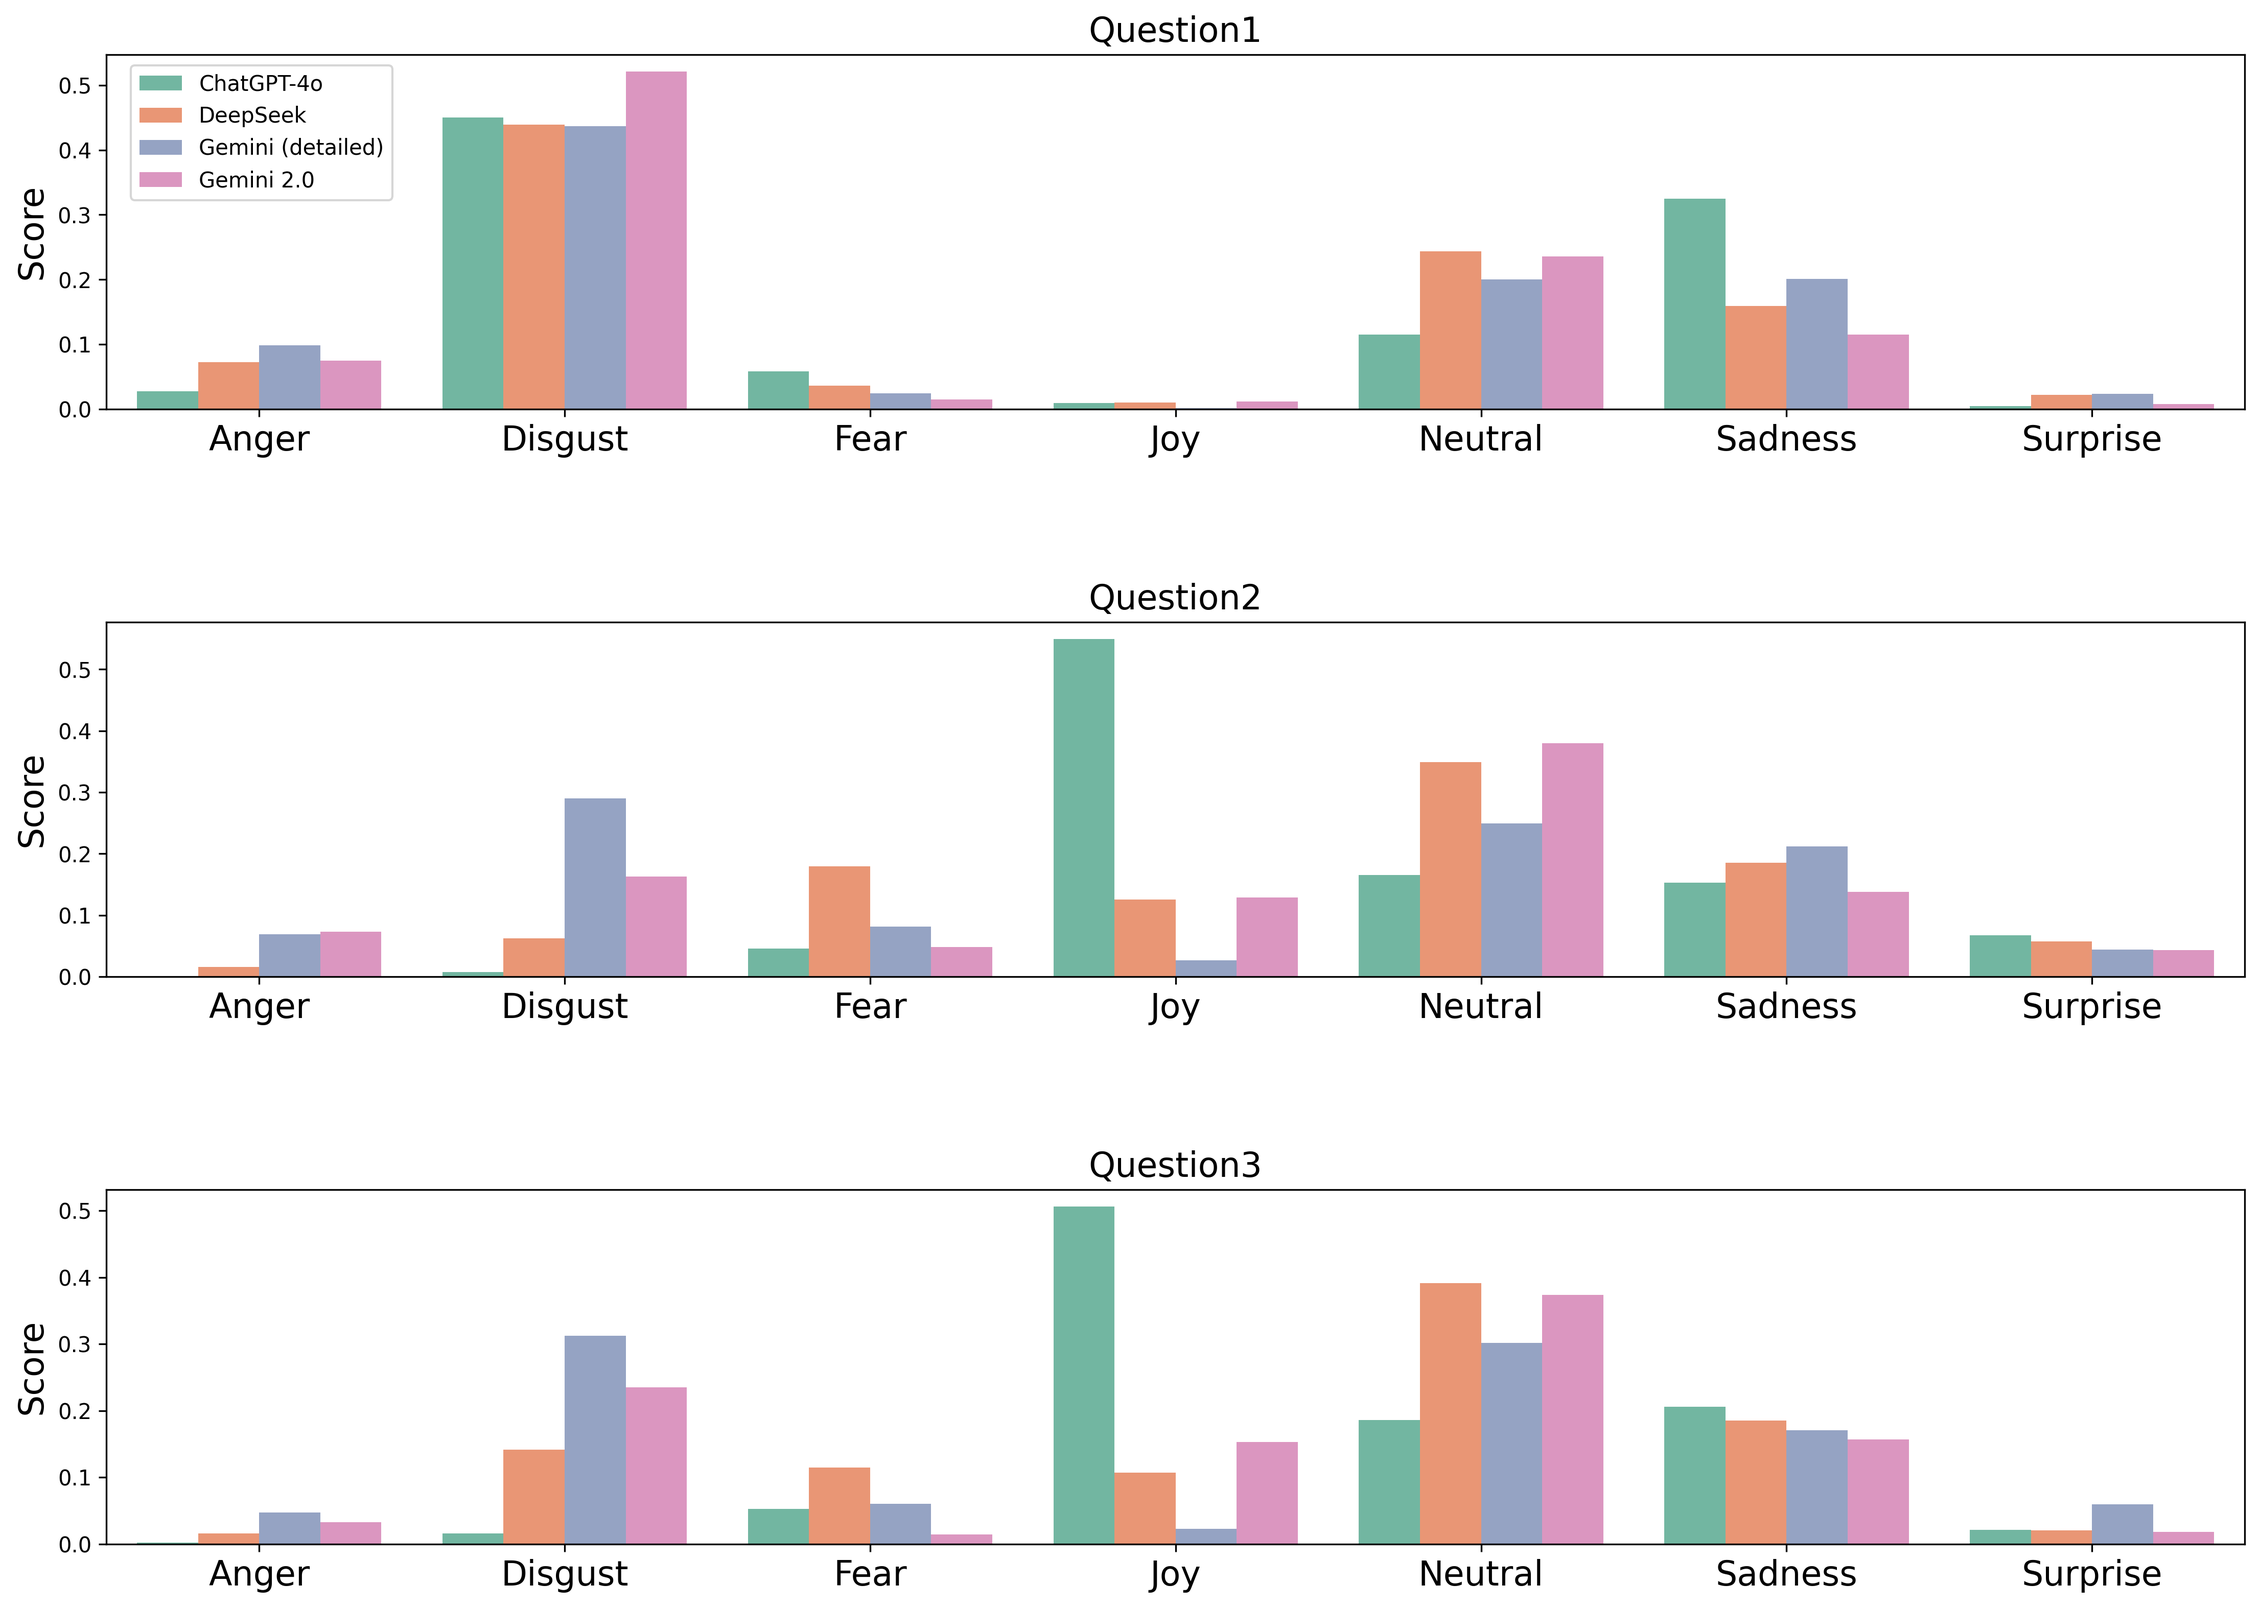
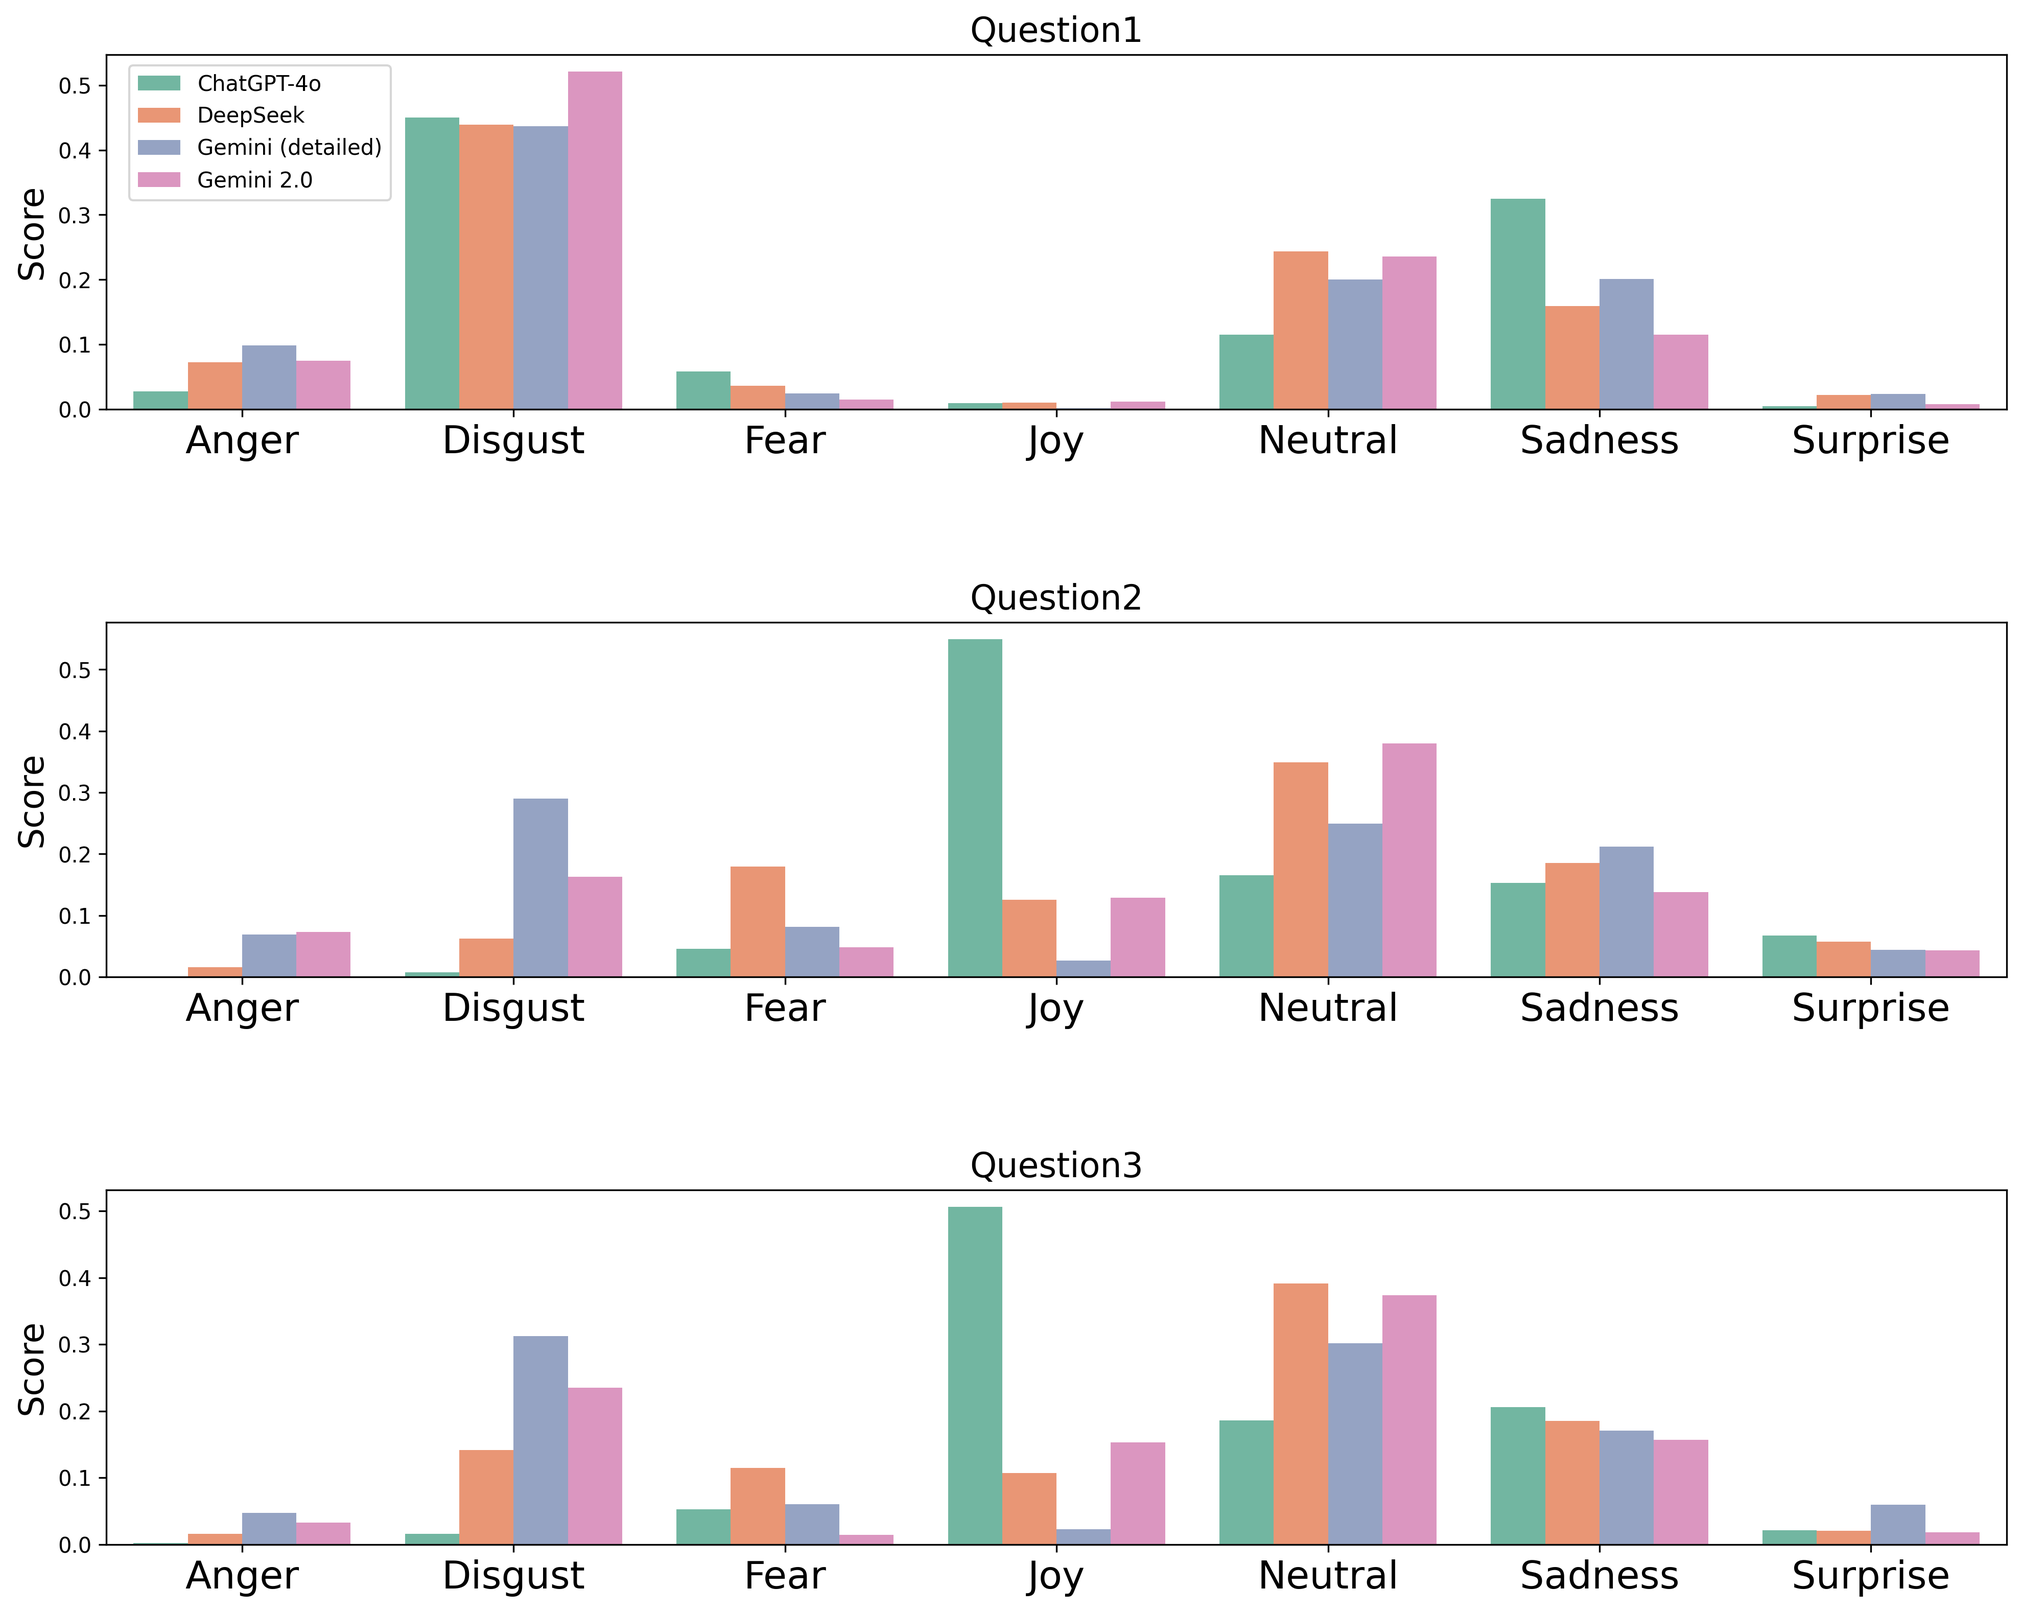
update

diff --git a/visualization/emotion.py b/visualization/emotion.py
@@ -135,7 +135,7 @@ def plot_emotion_by_question_subplots(ai_df):
     question_labels = ['question1', 'question2', 'question3']
 
     # Create subplots with appropriate size
-    fig, axes = plt.subplots(3, 1, figsize=(18, 12))
+    fig, axes = plt.subplots(3, 1, figsize=(16, 12))
 
     for idx, question_label in enumerate(question_labels):
         # Filter the dataframe for the specific question
@@ -164,11 +164,10 @@ def plot_emotion_by_question_subplots(ai_df):
         sns.barplot(data=avg_scores, x='Emotion', y='Score', hue='AI Model', palette="Set2", ax=axes[idx])
 
         axes[idx].set_title(f'{question_label.capitalize()}',
-
                             fontsize = 16)
 
         # adjust plot aesthetics
-        axes[idx].tick_params(axis='x', labelsize=16)
+        axes[idx].tick_params(axis='x', labelsize=18)
         # for label in axes[idx].get_xticklabels():
         #     label.set_fontweight('bold')
         axes[idx].legend().set_visible(False)
